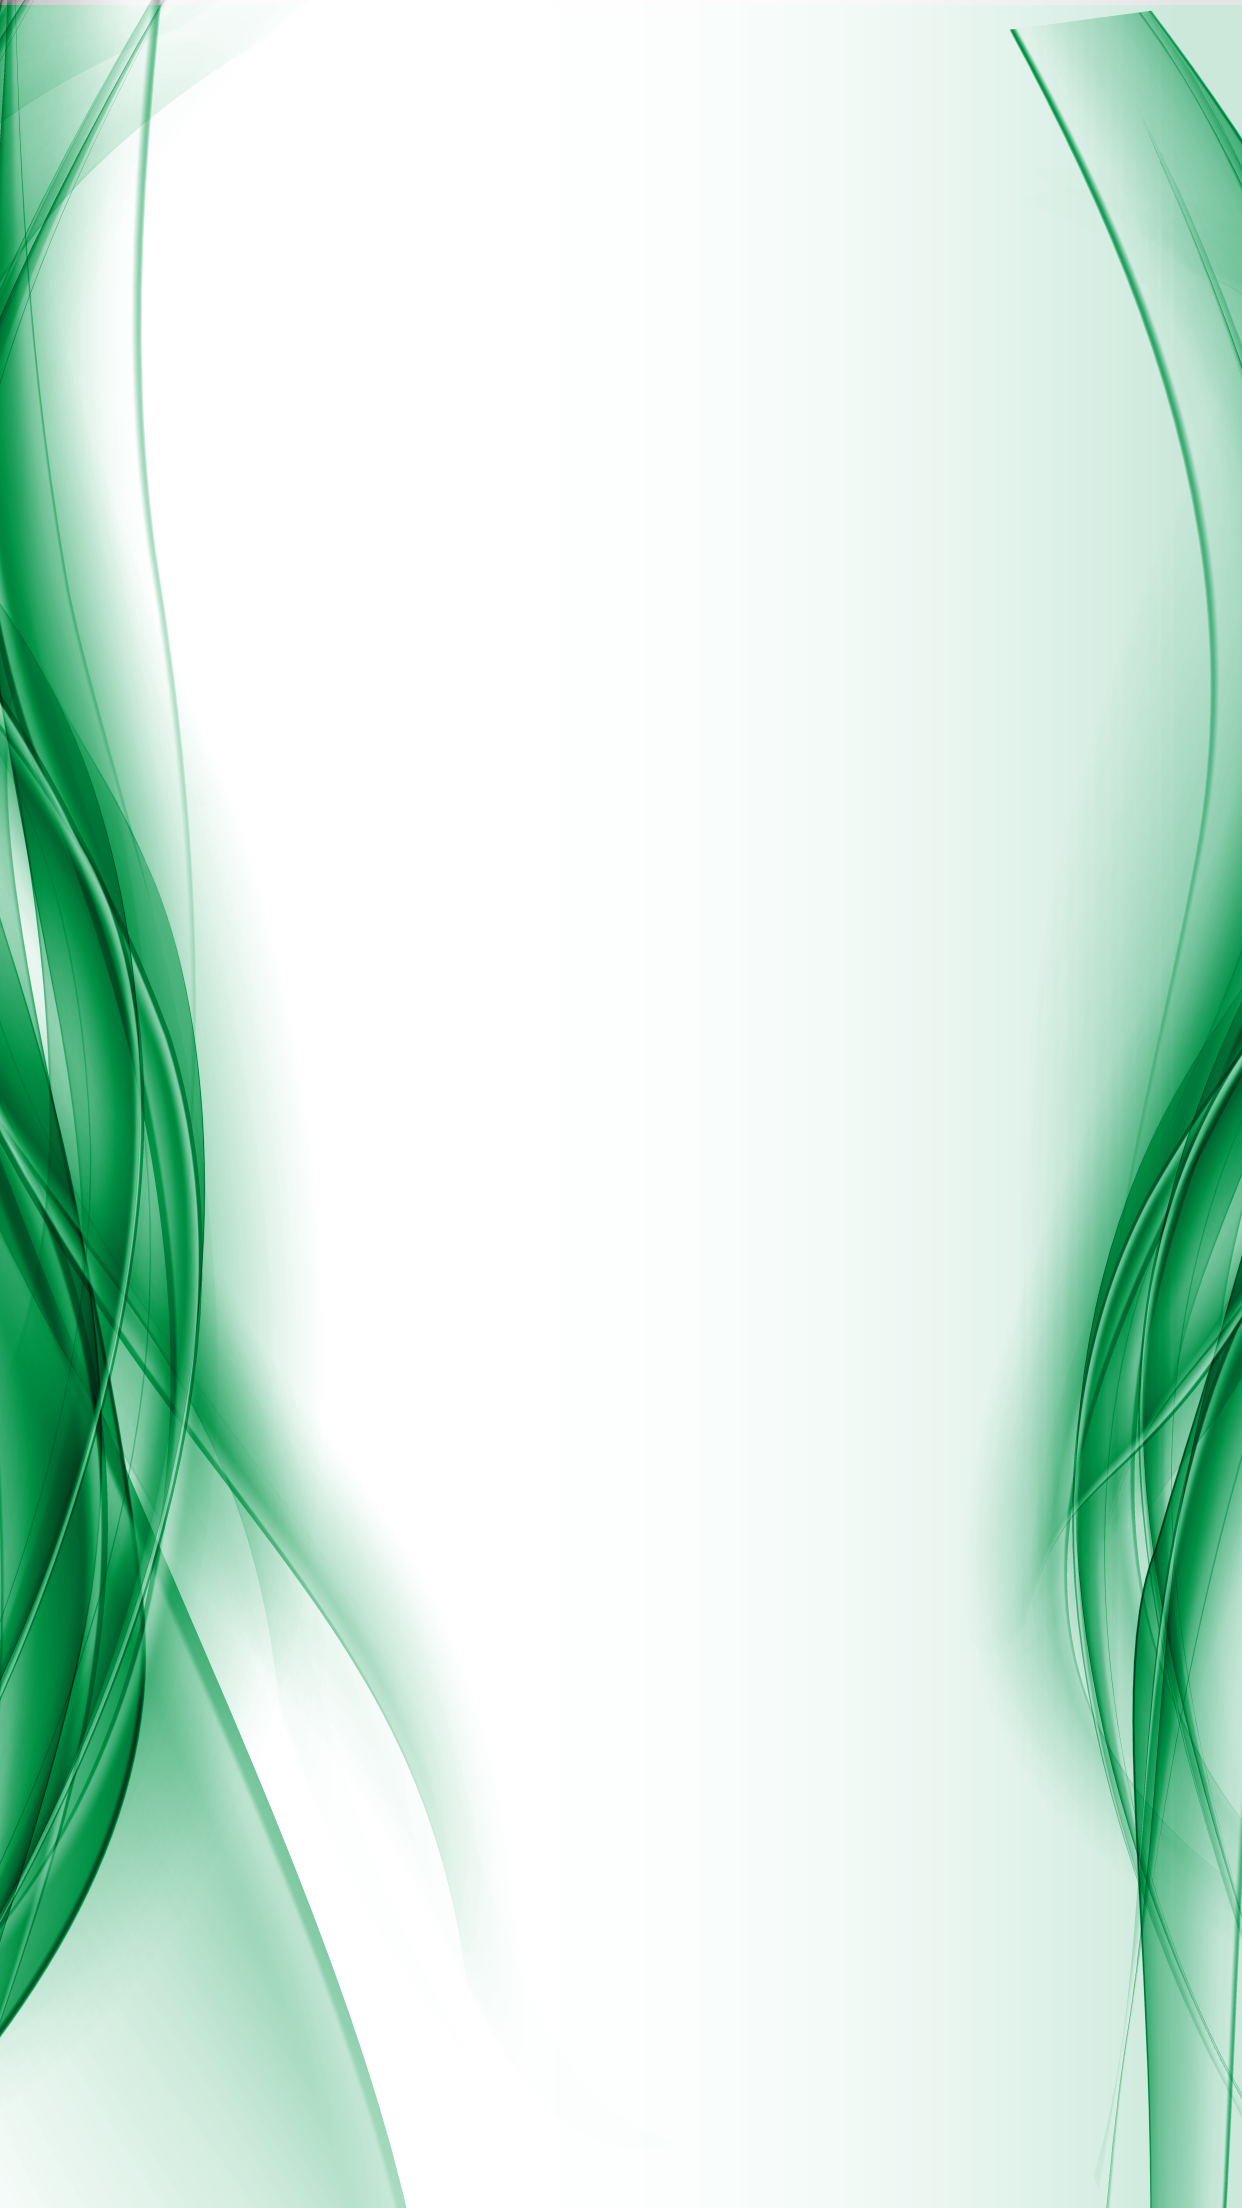
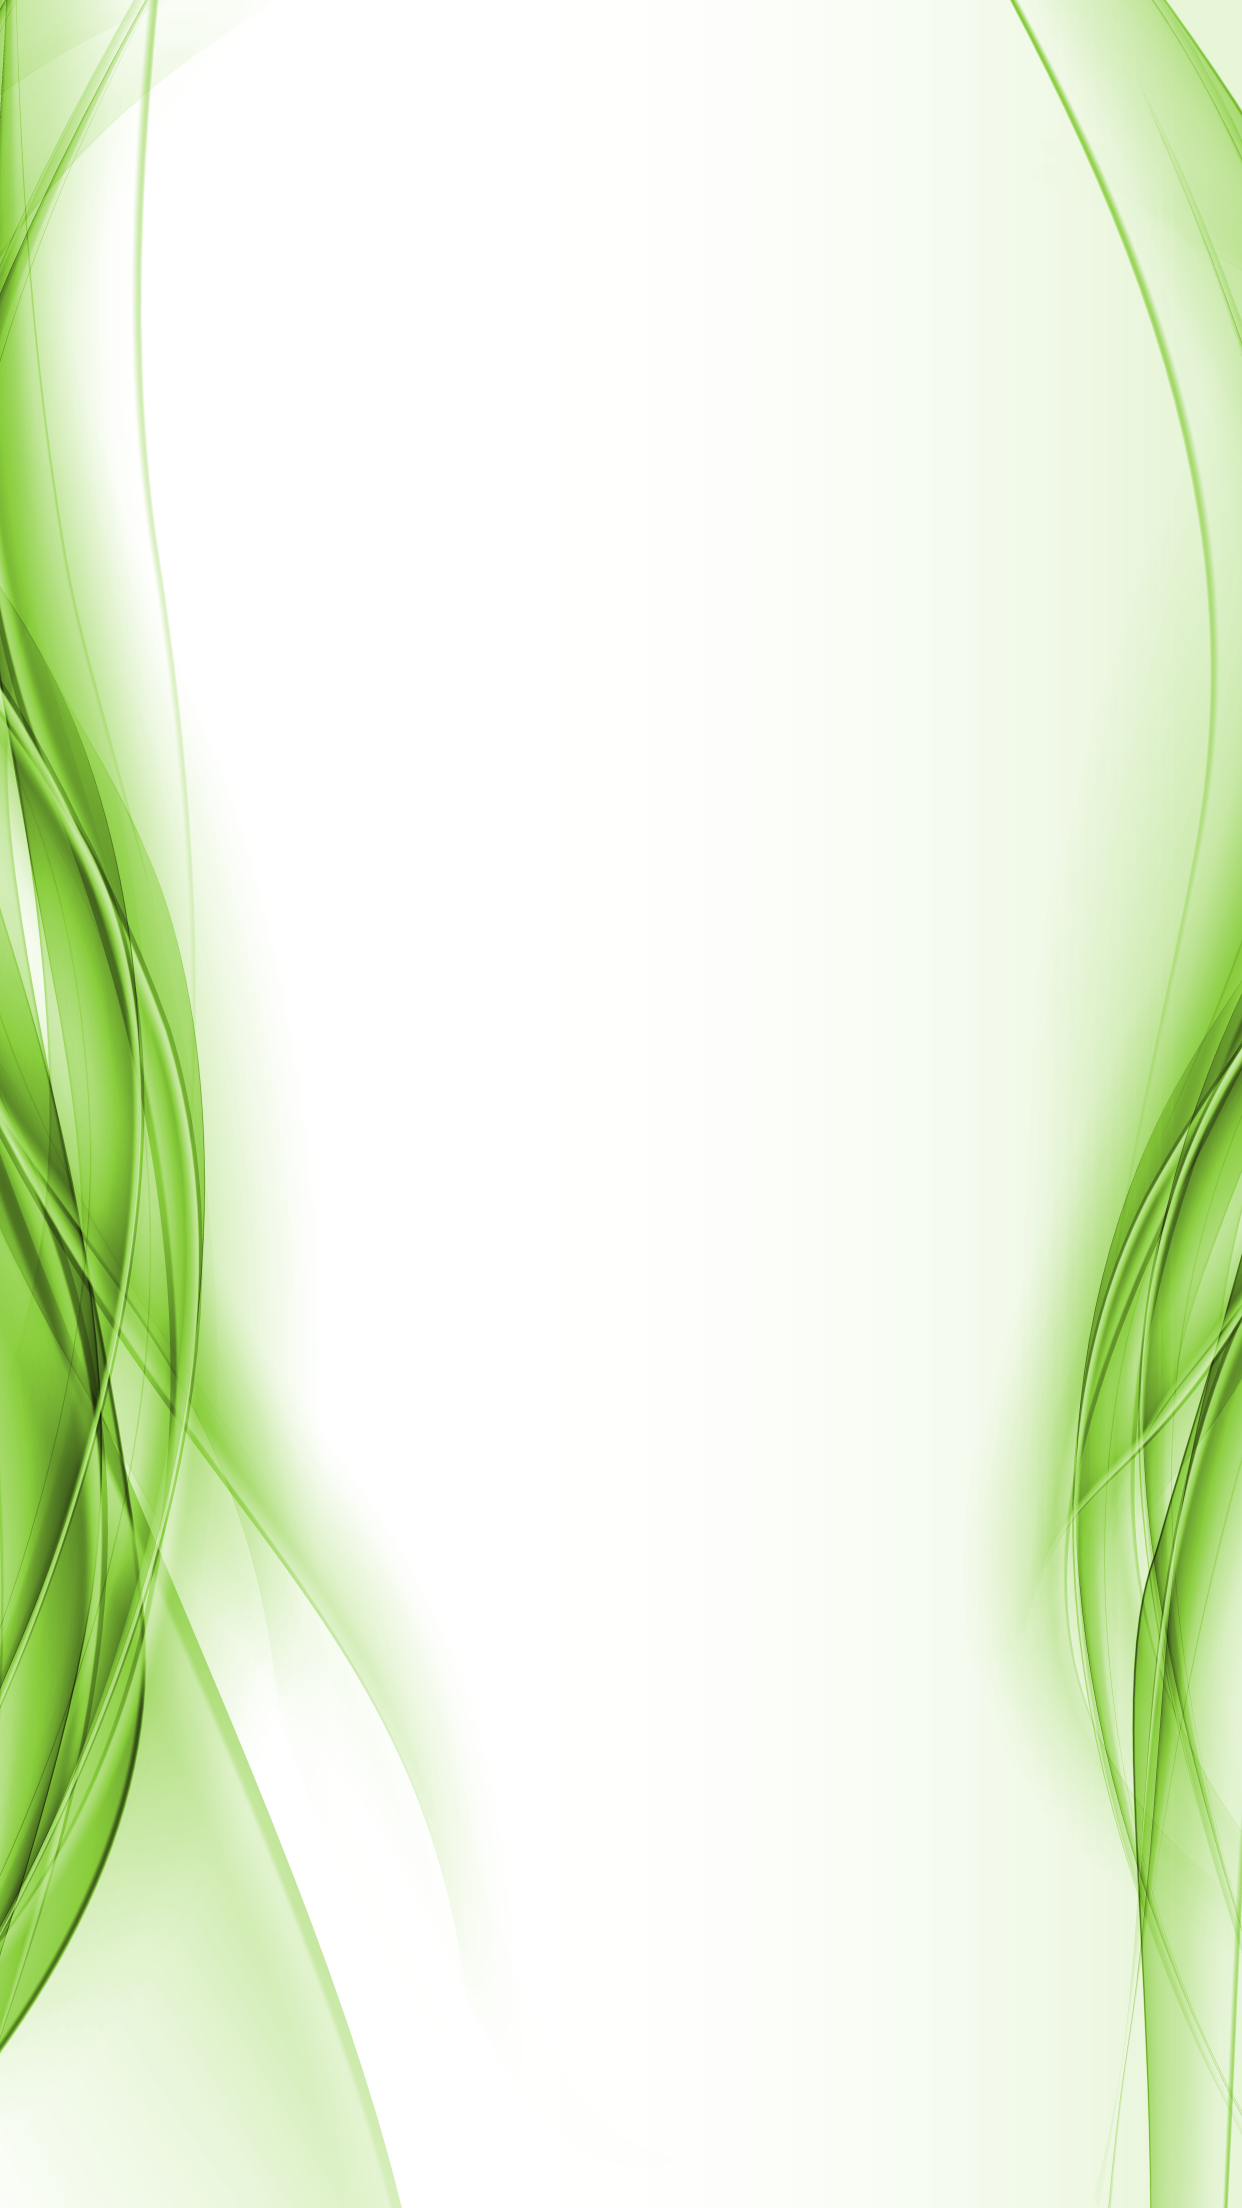
23 Aug

Changed region(s): [[0.0, 0.0, 0.3671, 1.0], [0.7955, 0.0, 1.0, 1.0]]

diff --git a/corporate/public/index.html b/corporate/public/index.html
@@ -645,7 +645,7 @@ transition: all 0.5s;">
           <div class="row" style="margin:0 !important; padding: 35px;">
 
             <div class="col-lg-3 col-md-4 col-sm-6 pricingcard">
-              <div class="card cdd text-center" style=" background-image: url(/careatorApp/css/pricebc.png);">
+              <div class="card cdd text-center" style=" background-image: url(/careatorApp/css/bc1.png);">
                 <h2 class="heading">
                   Trial
                 </h2>
